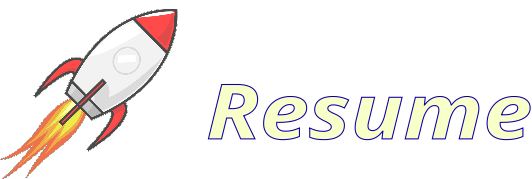
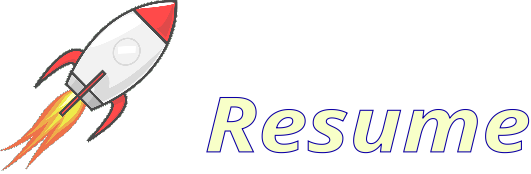
added resume form

Changed region(s): [[0.3917, 0.4598, 1.0, 0.8908], [0.0, 0.0, 0.3616, 1.0]]

diff --git a/src/components/resume-form.jsx b/src/components/resume-form.jsx
@@ -37,15 +37,20 @@ const MauticForm = styled.div`
 
 
 export default () => {
+  const [isLive, setLive] = useState(false);
   useEffect(() => {
     const script = document.createElement('script');
     script.src = 'https://bff.adstute.com/form/generate.js?id=4';
     script.async = true;
     document.querySelector('#resume-form').append(script);
+    setLive(true);
   }, []);
   return (<FormBox>
     <H1>
-      <img width="300" src="/images/header-content.png" alt="Fill Form to DL Resume" />
+      {isLive ?
+        <img width="300" src="/images/header-content.png" alt="Fill Form to DL Resume" /> :
+        <img width="300" src="/images/header-content-pre.jpg" alt="Fill Form to DL Resume" />
+      }
     </H1>
     <MauticForm id='resume-form' />
   </FormBox>)

diff --git a/src/pages/index.js b/src/pages/index.js
@@ -207,6 +207,7 @@ const SPA = (props) => {
   useEffect(() => {
     loadScript('/js/live-helper.js');
     loadScript('/js/matomo.js');
+    loadScript('/js/mautic.js');
     // loadScript('/js/tawk-to.js');
     toggleLive(true); // [] use this for the carousel later
 
